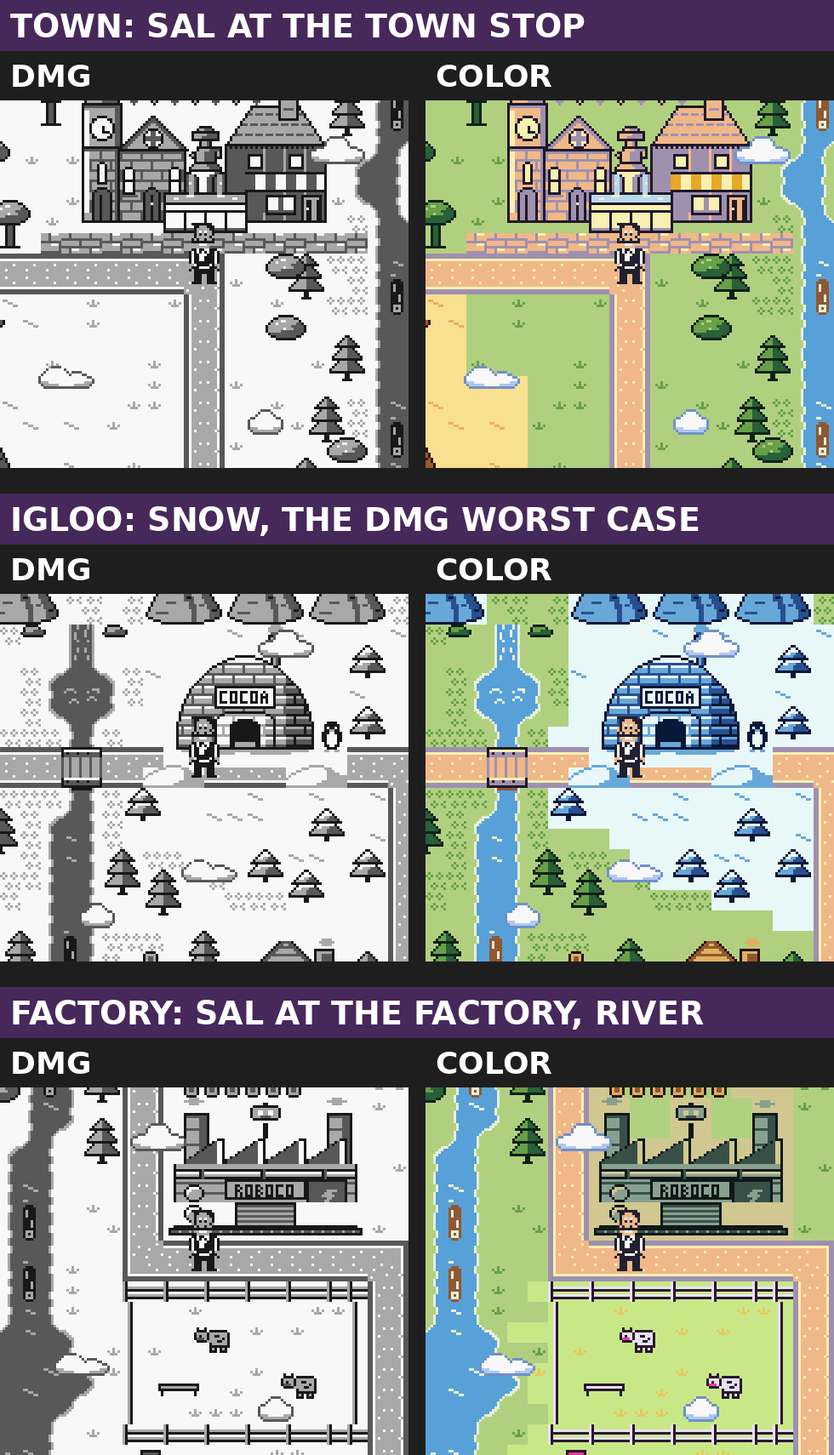
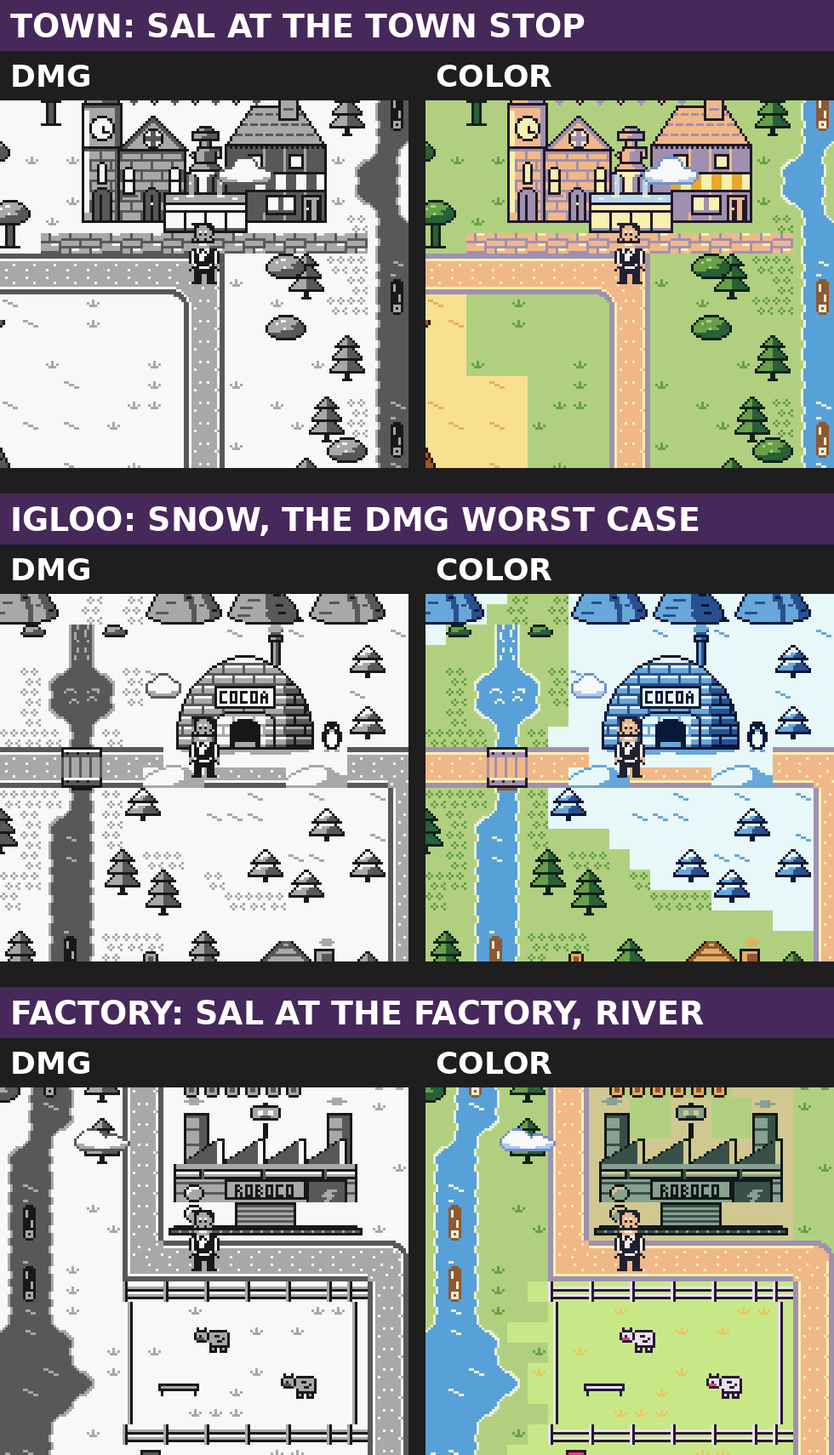
Story map clouds: world coordinates (owner Q114), merged the map's stage 1c
Owner: "clouds need to stay where they are in relation to map not sal". The clouds are now fixed in the world (four lanes, five clouds, world x =
(base + clock >> shift) & 1023) and scroll with the camera; they drift on their own. NOTES.md: new budget (OAM 23-35, one free scratch byte for
the clock's high half, no global), per-line count with a cloud over Sal (10 worst, clouds last in OAM, off-screen clouds y 0), CPU about 600
cycles a frame (estimate), the beam hides them. GIF re-rendered with Sal walking town to saloon to stadium (camera x 216..0, y 164..28).
Proposal only; goldens changed: none.

Claude-Session: https://claude.ai/code/session_01WXumg9pvGTKbXyU3qBciuY

diff --git a/docs/dev/proposals/smap_clouds/clouds.py b/docs/dev/proposals/smap_clouds/clouds.py
@@ -125,30 +125,27 @@ def blit(im, grid, x, y, cols, flip=False, w=None):
                 im.putpixel((px, py), (c, c, c) if isinstance(c, int) else c)
 
 
-# the lanes (screen y of the sprite's top; the entry is 16 tall) and speeds: a step of 1 px when (tick & mask) == phase.  Lanes are 16 px or more apart, so a line never holds two clouds.
-LANES = {"C": 12, "B": 100, "A": 118}
-STEP = {"C": (7, 3), "B": (3, 0), "A": (7, 5)}      # (mask, phase): C 1 px / 8 frames, B 1 px / 4, A 1 px / 8
+# World coordinates (owner, Q114: "clouds need to stay where they are in relation to map not sal").  Four lanes 128 px apart (56, 184, 312, 440: any 144-line view holds a whole lane), one cloud per lane except lane 184 (two, same speed, 210 px apart: never on one screen),
+# one cloud per lane, world x = (base + clock >> shift) & 1023 with clock = the 16-bit frame count (V_TICK and one scratch byte).  The world is 512 wide, so a cloud is on the map half of
+# the time.  Hidden (OAM y 0) when off the screen.  (design, world y, base x, shift: 1 px per 2^shift frames, X flip)
+CLOUDS = [("A", 56, 20, 3, 0), ("C", 184, 300, 3, 0), ("B", 184, 90, 3, 1), ("B", 312, 380, 2, 0), ("A", 440, 200, 3, 1)]
 
 
-class Clouds:
-    def __init__(self, xs, flips=(0, 0, 0)):
-        self.x = dict(zip(ORDER, xs))
-        self.f = dict(zip(ORDER, flips))
-        self.t = 0
+def cloud_pos(i, clk, cx, cy):
+    """the screen position (sx, sy) of cloud i, or None when it is off the screen (its entries get y = 0: they cost no scanline)"""
+    d, wy, base, sh, fl = CLOUDS[i]
+    wx = (base + (clk >> sh)) & 1023
+    sx, sy = wx - cx, wy - cy
+    if sx < -24 or sx >= 160 or sy <= -16 or sy >= 144:
+        return None
+    return sx, sy
 
-    def tick(self):
-        for k in ORDER:
-            m, p = STEP[k]
-            if (self.t & m) == p:
-                self.x[k] += 1
-                if self.x[k] >= 160:                 # b0 == 168: every entry is off the right edge; the engine jumps the group to -24 (a byte of 232)
-                    self.x[k] = -24
-                    self.f[k] ^= 1
-        self.t += 1
 
-    def draw(self, im, cols):
-        for k in ORDER:
-            blit(im, GRIDS[k], self.x[k], LANES[k], cols, bool(self.f[k]))
+def draw_clouds(im, clk, cx, cy, cols):
+    for i, (d, wy, base, sh, fl) in enumerate(CLOUDS):
+        p = cloud_pos(i, clk, cx, cy)
+        if p:
+            blit(im, GRIDS[d], p[0], p[1], cols, bool(fl))
 
 
 def view(world, cx, cy):
@@ -226,10 +223,10 @@ def pair_panel(cgb, ground):
     return stack_h(ims, gap=16)
 
 
-def compose_view(cgb, world, cx, cy, fx, fy, cl, pic=0, upx=0):
+def compose_view(cgb, world, cx, cy, fx, fy, clk, pic=0, upx=0):
     im = view(world, cx, cy).copy()
     draw_sal(im, fx, fy, cx, cy, pic, upx, SAL_CGB if cgb else SAL_DMG)
-    cl.draw(im, CLOUD_CGB if cgb else CLOUD_DMG)
+    draw_clouds(im, clk, cx, cy, CLOUD_CGB if cgb else CLOUD_DMG)
     return im
 
 
@@ -276,39 +273,37 @@ def main(outdir):
     sheet.save(out / "sheet_designs.png")
     rep.append(f"sheet_designs.png {sheet.size}")
 
-    # ---- sheet 2: in context x3 ----
-    views = [("TOWN: SAL AT THE TOWN STOP", 296, 236, (96, 14, 120), ""),
-             ("IGLOO: SNOW, THE DMG WORST CASE", 424, 100, (30, 70, 100), ""),
-             ("FACTORY: SAL AT THE FACTORY, RIVER", 432, 372, (100, 20, 50), "")]
+    # ---- sheet 2: in context x3 (world clouds at the clock value shown) ----
+    views = [("TOWN: SAL AT THE TOWN STOP", 296, 236, 0),
+             ("IGLOO: SNOW, THE DMG WORST CASE", 424, 100, 3040),
+             ("FACTORY: SAL AT THE FACTORY, RIVER", 432, 372, 0)]
     vrows = []
-    for title, fx, fy, xs, _ in views:
+    for title, fx, fy, clk in views:
         cx, cy = camera(fx, fy, WW, WH)
         pair = []
         for cgb, w_ in ((False, wd), (True, wc)):
-            im = compose_view(cgb, w_, cx, cy, fx, fy, Clouds(xs))
+            im = compose_view(cgb, w_, cx, cy, fx, fy, clk)
             pair.append(label(up(im, 3), "DMG" if not cgb else "COLOR", 36))
         vrows.append(label(stack_h(pair), title, 38, bg=(70, 40, 90)))
     sheet2 = stack_v(vrows, gap=30)
     sheet2.save(out / "sheet_context.png")
     rep.append(f"sheet_context.png {sheet2.size}")
 
-    # ---- the GIF: DMG left, Color right; Sal stands at the igloo, walks the east road to the lodge, stands ----
-    path = [(424, 100), (504, 100), (504, 236), (442, 236)]
+    # ---- the GIF: DMG left, Color right; Sal stands at the town, walks west to the saloon, north on the west road to the stadium, stands.  The camera scrolls 296 -> 0 and 164 -> 28. ----
+    path = [(296, 236), (43, 236), (8, 236), (8, 100), (80, 100)]
     frames = []
-    cl = Clouds((140, 116, 130))                     # A, B, C
     seq = [1, 0, 2, 0]
     pos = list(map(float, path[0]))
-    leg, walk, phase, ph_t = 0, 0, 0, 0
-    total = 180 + 144 + 130
-    maxlines = []
+    leg, phase, ph_t = 0, 0, 0
+    total = 100 + 250 + 100
+    over_sal, max_cloud_line, cam_span = 0, 0, [999, -1, 999, -1]
     for t in range(total):
-        walking = 180 <= t and leg < len(path) - 1
+        walking = 100 <= t and leg < len(path) - 1
         pic, upx = 0, 0
         if walking:
             tx, ty = path[leg + 1]
             dx, dy = tx - pos[0], ty - pos[1]
-            d = max(abs(dx), abs(dy))
-            step = min(2, d)
+            step = min(2, max(abs(dx), abs(dy)))
             pos[0] += step * (dx > 0) - step * (dx < 0)
             pos[1] += step * (dy > 0) - step * (dy < 0)
             if abs(tx - pos[0]) < 1 and abs(ty - pos[1]) < 1:
@@ -322,19 +317,28 @@ def main(outdir):
             phase = ph_t = 0
         fx, fy = int(pos[0]), int(pos[1])
         cx, cy = camera(fx, fy, WW, WH)
-        sy = fy - 24 - cy
-        # a cloud lane against Sal's lines (his entries plus the arrows: sy - 9 .. sy + 40)
-        for k in ORDER:
-            if LANES[k] < sy + 41 and LANES[k] + 16 > sy - 9:
-                maxlines.append((t, k))
+        cam_span = [min(cam_span[0], cx), max(cam_span[1], cx), min(cam_span[2], cy), max(cam_span[3], cy)]
+        ssx, ssy = fx - 8 - cx, fy - 24 - cy                     # Sal's art box 16 x 24 (his entries 32 lines tall)
+        lines = {}
+        hit = False
+        for i in range(len(CLOUDS)):
+            p = cloud_pos(i, t, cx, cy)
+            if p:
+                n = len(GRIDS[CLOUDS[i][0]][0]) // 8
+                for y in range(max(0, p[1]), min(144, p[1] + 16)):
+                    lines[y] = lines.get(y, 0) + n
+                if p[0] < ssx + 16 and p[0] + 8 * n > ssx and p[1] < ssy + 32 and p[1] + 16 > ssy:
+                    hit = True
+        over_sal += hit
+        max_cloud_line = max([max_cloud_line] + list(lines.values()))
         if t % 3 == 0:
             pair = []
             for cgb, w_ in ((False, wd), (True, wc)):
-                pair.append(up(compose_view(cgb, w_, cx, cy, fx, fy, cl, pic, upx), 3))
+                pair.append(up(compose_view(cgb, w_, cx, cy, fx, fy, t, pic, upx), 3))
             lab = [label(pair[0], "DMG", 36), label(pair[1], "COLOR", 36)]
             frames.append(stack_h(lab))
-        cl.tick()
-    rep.append(f"gif frames {len(frames)} ({total} game frames, 3 per frame, 50 ms = 60 fps), size {frames[0].size}; cloud lane touches Sal's band (sy-9..sy+40) on {len(maxlines)} (frame, cloud) pairs")
+    rep.append(f"gif frames {len(frames)} ({total} game frames, 3 per frame, 50 ms = 60 fps), size {frames[0].size}; camera x {cam_span[0]}..{cam_span[1]}, y {cam_span[2]}..{cam_span[3]}; "
+               f"most cloud entries on one line {max_cloud_line}; frames with a cloud over Sal's sprite {over_sal}")
     q = [f.quantize(colors=96, method=Image.Quantize.MEDIANCUT, dither=Image.Dither.NONE) for f in frames]
     q[0].save(out / "smap_clouds_dmg_color.gif", save_all=True, append_images=q[1:], duration=50, loop=0, optimize=True)
     rep.append("gif bytes %d" % (out / "smap_clouds_dmg_color.gif").stat().st_size)

diff --git a/docs/dev/proposals/smap_clouds/NOTES.md b/docs/dev/proposals/smap_clouds/NOTES.md
@@ -2,9 +2,11 @@
 
 Owner: "I think it would be cool is sprite clouds drifted across the map, independent of the background. Assuming we got sprite only tile slots freed up."
 
-Files here: `clouds.txt` (the art, typed by hand), `clouds.py` (transcribes, composites over the integrated map, lints; rebuild: `python3 -I docs/dev/proposals/smap_clouds/clouds.py docs/dev/proposals/smap_clouds`, from the repo root, after `smap_import/build.py`'s first two steps wrote the A5 scratch src), `clouds_dmg.png` / `clouds_cgb.png` (indexed 64x16 sheets: 8 sprite columns), `sheet_designs.png`, `sheet_context.png`, `smap_clouds_dmg_color.gif` (DMG left, Color right, 454 game frames at 60 fps, no flashing), `report.txt`.
+Files here: `clouds.txt` (the art, typed by hand), `clouds.py` (transcribes, composites over the integrated map, lints; rebuild: `python3 -I docs/dev/proposals/smap_clouds/clouds.py docs/dev/proposals/smap_clouds`, from the repo root, after `smap_import/build.py`'s first two steps wrote the A5 scratch src), `clouds_dmg.png` / `clouds_cgb.png` (indexed 64x16 sheets: 8 sprite columns), `sheet_designs.png`, `sheet_context.png`, `smap_clouds_dmg_color.gif` (DMG left, Color right, 450 game frames at 60 fps: Sal stands at the town, walks west to the saloon and north to the stadium, the camera scrolls x 216 to 0 and y 164 to 28 and the clouds scroll with the map; no flashing), `report.txt`.
 
-**Answer: yes.** 8 OAM entries and 16 sprite-only tiles buy three clouds; 0 bytes of WRAM, no existing sprite touched, no new Color palette slot that the map uses.
+**Revision 2 (owner, Q114: "clouds need to stay where they are in relation to map not sal").** The clouds now live in world coordinates: they scroll with the map when Sal walks and the camera moves, and still drift on their own. Revision 1 (screen-space lanes) is replaced; the designs, tiles and palettes did not change.
+
+**Answer: yes.** 13 OAM entries (23-35) and 16 sprite-only tiles buy five clouds on four world lanes; no new WRAM global (one free byte of `story_scratch` holds the clock's high half), no existing sprite touched, no new Color palette slot that the map uses. The beam-up hides them.
 
 ## Part 1: budget (the map as it stands in src/ today)
 
@@ -12,38 +14,42 @@ The map is in 8x16 sprite mode (`src/main.c:12`). An entry is 16 lines tall what
 
 | Resource | Used now | Free for clouds | Where |
 |---|---|---|---|
-| OAM entries (40) | 0-2 arrows, 3-6 Sal, 7 bang, 8-18 the 11 stop dots, 19-21 UFO, 22 panel cursor = 23 | 23-39 = 17; **32-39 = 8 permanently**. The beam-up uses 0-2 (the UFO over Sal) and 23-31 (the beam, 9 entries) | `src/smap.c:136-141`; beam `src/cameo.c:116-143` (`figat(23, rows*3 ...)`, `for (i = 23; i < 32 ...)`) |
+| OAM entries (40) | 0-2 arrows, 3-6 Sal, 7 bang, 8-18 the 11 stop dots, 19-21 UFO, 22 panel cursor = 23 | 23-39 = 17 free; the clouds take **23-35 (13)**. The beam-up uses 0-2 (the UFO over Sal) and 23-31 (the beam, 9 entries), so the clouds must be hidden while it plays (they are: see Integration). 36-39 stay spare | `src/smap.c:136-141`; beam `src/cameo.c:116-143` (`figat(23, rows*3 ...)`, `for (i = 23; i < 32 ...)`) |
 | Sprite-only tiles (ids 0-127; BG ids 128+ share 0x8800 with sprites 128-255) | 0-39 Sal (5 pictures x 8); 56-73 the map's 18 (UFO 6, dots 4, bang 2, arrows 6: `tools/gen_smap.py:94`, `src/smap_priv.h:13`); 98-115 the beam and UFO art when the space lounge is open (`cam_map_load`, `CAM_SPACE_BASE 98`, 18 tiles, from `tools/gen_cameo.py`) | 40-55 (16: the DX badge / zoo cameo's, not loaded on the map), **74-97 (24)**, 116-127 (12) = 52 with the space lounge open, 70 before. Clouds take 74-89 (even ids: 8x16 pairs) | `src/game.h:157-167`; the map streams only BG ids 0-35 and 93-232 (`pool_id`, `src/smap_priv.h:84`), never 0x8000-0x87FF |
 | Color bank-1 sprite tiles | none loaded by the map (`tile_load` bank 1 writes the BG pool ids only, `src/smap_eng.c:515-525`) | all 128 of bank 1 ids 0-127. Not needed: the clouds are the same tiles on both machines | |
 | DMG sprite palettes | OBP0 = 0xD0 (every map sprite: Sal, arrows, dots, UFO, bang; `src/smap.c:795`). OBP1 only by the beam (0xE4, `cam_map_load`, `src/cameo.c:124`; the beam's entries use `S_PALETTE`) | **OBP1** (set 0x90: white, light grey, mid grey) | |
 | Color OBJ palettes | 0 Sal, 2 UFO and beam, 3 open dot, 4 locked dot, 6 arrow, 7 bang (`src/smap.c:131-135, 789-791`) | **1 and 5** (the cards' and the coin's; the map never loads either). Clouds: 1 | |
-| WRAM | `story_scratch` variable block is full: `S_V + V_N = 396 + 68 = 464 = S_T` (`src/smap_priv.h:32,45,46`) | none needed: the cloud state lives in the shadow OAM entries themselves (see Integration) | |
+| WRAM | `story_scratch` variable block is full: `S_V + V_N = 396 + 68 = 464 = S_T` (`src/smap_priv.h:32,45,46`). `V_TICK` is only 8 bits | **1 byte**: the high byte of a 16-bit frame clock (`V_TICK` low), at `story_scratch` 238 or 239, which the region table leaves free (A_PUSE ends at 238, A_ATTR_UI starts at 240, `src/smap_priv.h:21-22`; the stage 1 import notes keep those 2 B free after its re-lay). Not a global. Everything else is derived: world x = (base + clock >> shift) & 1023, fixed world y, screen = world - camera |
 
 ### Sprites per scanline
 
-Worst line today, standing at a stop (all entries counted by their 16 lines, hidden-by-x entries included):
+Worst line today, standing at a stop (all entries counted by their 16 lines):
 - Sal 2 (his two rows of two entries never overlap each other) + the left and right arrows 2 = 4 on his lines sy+8..sy+15 (sy = his top, `src/smap.c:316-340`).
-- Lines sy+25..sy+31: Sal 2 + the down arrow 1 + his own dot 1 + up to 2 more dots on the same lane (stops share a feet y: `smapw_stop`, at most 2 other stops fit in 160 px; `draw_still`) = 6.
+- Lines sy+25..sy+31: Sal 2 + the down arrow 1 + his own dot 1 + up to 2 more dots on the same lane (stops share a feet y: `smapw_stop`; at most 2 other stops fit in 160 px) = 6.
 - With the bang or the UFO near a stop: 7. During the beam: UFO 3 + beam band 3 on the 5 lines they share = 6; Sal 2 + one band 3 = 5.
 - **Worst non-cloud line: 7.** The limit is 10.
 
-Clouds: three groups of 3, 2 and 3 entries on three lanes at least 16 px apart (screen y 12, 100, 118), so a line never holds two clouds: **at most 3 more, 10 in the worst case, normally 3 to 7.** Two things make that safe:
-1. Hardware keeps the first 10 entries *in OAM order* on a line and drops the later ones. The clouds are OAM 32-39, the last, so if a line is ever full it is a cloud that is cut, never Sal, an arrow, a dot or the UFO.
-2. The lanes sit away from Sal. The camera centres him (his top is screen y 48 when the camera is not clamped), so his band with the arrows is lines 39..88 and the lanes are 12-27, 100-115, 118-133. `clouds.py` walks the igloo to lodge route and counts 0 frames where a lane meets his band. At the world's edges he moves toward a lane and a cloud can pass over him (Color: he is in front, lower OAM index; DMG: the hardware gives the entry with the smaller x priority, so a cloud left of his x covers his head for a moment; harmless).
-An entry off the screen in x still counts toward the line, so the three lanes cost their entries all the time, not only when a cloud is in view. That is already in the numbers above.
+Clouds, world version: four lanes at world y 56, 184, 312 and 440 (128 apart, 16 tall), one cloud per lane except lane 184 (two, 210 px apart and the same speed, so never on one 160 px screen). Any 144-line view holds a whole lane. Lanes are at least 16 px apart in y, so **a line holds at most one cloud: 3 entries.** Worst line = 7 + 3 = **10, within the limit.** The mock-up counts it: over the whole walk the most cloud entries on any line is 3.
+- **A cloud over Sal** (now possible, the world moves under both): the worst line is exactly that 7 + 3 = 10; no cloud can add a second group to the same lines. Hardware keeps the first 10 entries in OAM order and the clouds are the last (23-35), so a cloud is what gets cut, never Sal. Color: Sal is in front (lower OAM index). **DMG: the entry with the smaller x wins, so a cloud to the left of Sal's x covers part of him for the seconds it takes to pass.** The mock-up's walk (town to saloon to stadium) never meets one (0 frames); the town stop sits right under lane 184, so a cloud can cross him there. Owner's call: accept it (a cloud passing over a hero reads as a cloud), or hide a cloud while it is within Sal's box (one compare per cloud, about 40 cycles).
+- A cloud off the screen gets OAM y 0, so it costs no line at all (revision 1's off-screen-in-x entries did). Unused entries 23-35 are y 0.
+- **The beam**: `V_BEAM` set hides entries 23-35 (y 0) once, in `press_a`, and `cloud_update` returns while `V_BEAM` is non-zero. The beam then writes 23-31 itself (it already sets them to y 0 first) and never touches 32+. So during the beam the line counts are the beam's own (6 at most).
 
-**How many 8x16 clouds fit:** 8 entries = 3 clouds (3 + 2 + 3), or 4 two-entry puffs. Up to 17 entries (23-39) if the beam-up hid the clouds first (the beam writes 23-31 itself); not proposed, the 8 are enough for a few clouds on a 160 px view and keep the beam untouched. Tiles: 16 of the 52-70 free.
+**How many 8x16 clouds fit:** the 13 entries hold 5 clouds (A 2 + C 3 + B 3 + B 3 + A 2); up to 17 entries (23-39) are free, so a 6th would fit. Lanes are the limit, not entries. Tiles: 16 of the 52-70 free.
 
 ### CPU (estimated by instruction count, not measured: nothing is built)
 
-State is `x` of each group's first entry (the other entries are +8 and +16). A step is `x++` on each of the group's 2-3 entries (about 30 cycles each in SDCC C), one compare for the wrap, and a tick test per cloud:
-- Steps happen when `(V_TICK & mask) == phase`: B every 4 frames (phase 0), A and C every 8 (phases 5 and 3). The phases never coincide, so **at most one cloud steps in a frame**: about 190 cycles on a step frame, about 40 on the others, **about 115 on average = 0.16% of a 70,224-cycle DMG frame; worst 0.4 of a 456-cycle scanline.**
-- It is called once at the end of `smap_update`, after the walk and the drawing, so it takes nothing from the `LY_WORK` window that `smap_region_work` watches (`src/smap_priv.h:88-97`).
-- Walking frames (`draw_walk`) are untouched. No `oam_shift` is needed: the clouds are in screen space.
-- Hiding under a window (the name tag, a panel) is done in `draw()` (which already runs on every frame with a window or a still hero): 3 compares and up to 8 stores, about 100 cycles, only on those frames. A cloud entry overlapping the window rows is set to y 0, restored from its lane constant.
-- No asm needed. If the owner wants one anyway: `make cfall` keeps the C twin as the rules say.
+Every frame `cloud_update(cx, cy)` runs at the end of `smap_update` (after the walk and the drawing, so it takes nothing from the `LY_WORK` window `smap_region_work` watches, `src/smap_priv.h:88-97`):
+- the clock: `V(V_TICK)++` already runs; when it wraps to 0, `SC(238)++` (about 12 cycles once per 256 frames);
+- per lane: its screen y = world y - camera y (16-bit, about 30 cycles) and a range test, about 35 cycles in all; 4 lanes = about 140;
+- per cloud on a lane that is in view: `wx = (base + (clk >> shift)) & 1023` (16-bit shifts and add, about 70), `sx = wx - cx` (about 30), the range test (about 40), 2-3 stores of the entries' x and y (about 70) = about 210; at most 2 lanes are in view, usually 2 clouds = about 420;
+- entries of a cloud that just left the screen get y 0 (about 10 per entry).
+- **Total about 600 cycles a frame = 0.85% of a 70,224-cycle DMG frame, about 1.3 scanlines (456 cycles each); worst about 750.** The same every frame, walking or standing.
+- Window hiding folds in: with a window up (V_WH) an entry overlapping its rows gets y 0, 3 more compares.
+- Revision 1 (screen space, a step every 4-8 frames) cost about 115 cycles a frame; the world version costs about 5 times that, because the camera moves them and the positions are rederived every frame. If that is too much for the walk: a cheaper form shifts the visible clouds' x by the camera's step like `oam_shift` (about 120 cycles for 13 entries) and recomputes only when a cloud enters or leaves; not drawn here.
+- No asm needed. If wanted: `make cfall` keeps the C twin as the rules say.
 
-ROM: 256 B of tiles, about 250-350 B of code and 3 palette words, all in smap.c's own bank (it is a bank on its own), none in ROM0 (the 745 B of free ROM0 stay). Nobody measured the bank's free space: romusage before and after in stage 2.
+ROM: 256 B of tiles, about 400-500 B of code and 3 palette words, all in smap.c's own bank (it is a bank on its own), none in ROM0 (the 745 B of free ROM0 stay). Not measured: romusage before and after in stage 2.
+
 
 ## Part 2: the clouds
 
@@ -52,20 +58,21 @@ Three designs (`sheet_designs.png`): A PUFF 16x16 (2 entries), B LONG 24x16 (3),
 - DMG: OBP1 = 0x90 gives white / light grey / mid grey. On the white ground the outline carries the cloud; over water (shade 2) the white body carries it and the outline vanishes into the water. The shade is the light grey, so the belly is soft. No black anywhere, so clouds never compete with Sal (black outline).
 - Color: OBJ palette 1: `F8F8F8` `B0C8F0` `7090C8` (RGB555 0x7FFF, 0x7B36, 0x664E), same tiles; a cool blue shade and a deeper blue edge (figure 13: shadows cool, darkest a deep hue; figure 7: mids below about 16 of 31 so the steps survive the washed-out LCD, first draft D0E0F8 was too close to white). The map and design sheets are the project's raw palette render; one row of `sheet_designs.png` shows an approximate LCD correction (a common emulator matrix, illustrative, not SameBoy's).
 - Tiles: 16 slots, 12 unique (3 are blank halves), 9 with flips merged. Not merged in the plan: flip-merging would save 4 tiles but adds an entry flag per tile; unneeded.
-- Drift: C 1 px / 8 frames (7.5 px/s), B 1 px / 4 (15 px/s), A 1 px / 8. A group wraps when its first entry's x byte reaches 168 (all entries are then off the right edge) and jumps to 232 (-24 px, all off the left); at each wrap the engine can flip the group. The GIF does that; a cloud takes 12 to 25 s to cross.
-- Independent of the background: screen space; Sal walking at 2 px/frame sends the ground past them. Option (not drawn): a quarter of the camera's step added to x gives a parallax; costs a few more cycles per camera move.
+- Drift: lane-mates, A and C: 1 px / 8 frames (7.5 px/s, shift 3), B 1 px / 4 (15 px/s, shift 2). World x = (base + clock >> shift) & 1023; the world is 512 wide, so each cloud is on the map half of the time and slides off the right edge and returns from the left (hidden both times). 16384 and 8192 are multiples of 1024, so the 16-bit clock wrapping (every 18 minutes) is seamless. A group is X-flipped by a fixed flag per cloud.
+- Stays with the map (owner Q114): a cloud's position is fixed in the world and moves only by its own drift; Sal walking sends the camera across it exactly like the trees (the GIF: the camera goes from x 216 to 0 and y 164 to 28 over 250 frames and the clouds scroll with the ground). Screen position = world - camera, so no `oam_shift` is involved; the map's camera is the only input.
 - No flashing: the motion is 1 px steps, slow, light shades; DMG ghosting is not a worry at this speed on white.
 
-Mock-up honesty: the integrated map is a stage 1 proposal, not in the engine, so the GIF and context sheet composite the sprites over the python render of that map (the same world renders the other import sheets use), with Sal's real art and no arrows or dots drawn. It is not a ROM capture.
+Mock-up honesty: the integrated map is a stage 1 proposal, not in the engine, so the GIF and context sheet composite the sprites over the python render of that map (the same world renders the other import sheets use; merged again for stage 1c), with Sal's real art and no arrows or dots drawn, the camera following Sal 1:1 (clamped to the world), and the clock = the game frame. It is not a ROM capture. The context sheet shows clouds at the world positions of a clock value set in `clouds.py` (the igloo view is at clock 3040, about 50 s in).
 
 ## Integration sketch (stage 2, if the owner picks one)
 
-- `tools/gen_smap.py`: three more 8x16 groups after the UFO; `SOB_CLOUD_A/B/C` at OBJ 74-89 (`OB + 18`; `OB` is 56, so these are `OB + 18 .. OB + 33`; keep the `< 98` check because the beam art starts at 98); one more row in `smap_obj_pal` for OBJ palette 1.
-- `smap_enter`: `set_sprite_data` already loads the block; after `cam_map_load()` set `OBP1_REG = 0x90` (DMG) / `set_sprite_palette(1, 1, ...)` (Color); write the 8 entries (lane y + 16, staggered x, tile, prop: Color palette 1 | flip, DMG `S_PALETTE` for OBP1).
-- `smap_update`: one `cloud_drift()` call at the end (the tick test and the steps above); `draw()`: the window hide for entries 32-39.
-- Beam (`press_a`, `smap.c:634`): `V_BEAM = 1` also sets `OBP1_REG = OBP1_PLAY` (0xE4) for the beam's edges and hides the 8 clouds (OBP1 0xE4 would turn them dark); or let them keep going and accept dark ones for 3 s: not recommended.
+- `tools/gen_smap.py`: three more 8x16 groups after the UFO; `SOB_CLOUD_A/B/C` at OBJ 74-89 (`OB + 18 .. OB + 33`; `OB` is 56; keep a build assert `< 98`, the beam art starts there); one more row in `smap_obj_pal` for OBJ palette 1. The 5 clouds' (design, world y, base x, shift, flip) table is `const` in smap.c (about 25 B).
+- `smap_enter`: `set_sprite_data` already loads the block; after `cam_map_load()` set `OBP1_REG = 0x90` (DMG) / `set_sprite_palette(1, 1, ...)` (Color); write tile and prop of entries 23-35 once (Color palette 1 | flip, DMG `S_PALETTE` for OBP1; flipped groups list their entries in reverse); `story_scratch` is cleared there, so the clock starts at 0 (clouds start from their base each visit).
+- `smap_update`: `if (!++V(V_TICK)) SC(238)++` instead of `V(V_TICK)++`; one `cloud_update()` call at the end (the lanes above, `if (V(V_BEAM)) return;` first), with the window hide folded in.
+- Beam (`press_a`, `smap.c:634`): `V_BEAM = 1` also sets `OBP1_REG = OBP1_PLAY` (0xE4) for the beam's edges and sets y 0 on entries 23-35 (OBP1 0xE4 would turn the clouds dark, and 23-31 are the beam's).
 - `leave()`: put OBP1 back to `OBP1_PLAY` (screens after the map expect their own value; `cameo.c:57` sets it for the PRE scene, other screens do not obviously).
-- Tests: a junk-poke test of the cloud entries (PyBoy zeroes OAM; real hardware does not; `hide_all_sprites` at `smap.c:773` runs first), an OAM-count assertion (entries 32-39 only), and existing map goldens will change where a cloud sits: the map's goldens need the clouds frozen or the entries hidden for the tests.
+- Tests: a junk-poke test of the cloud entries (PyBoy zeroes OAM; real hardware does not), an OAM assertion (entries 23-35 only; y 0 during the beam), and the existing map goldens will change where a cloud is in view: freeze the clock or hide the entries in the tests (the clock byte is a free scratch byte, so a test can poke it).
+
 
 ## DMG or Color
 
@@ -77,11 +84,15 @@ Mock-up honesty: the integrated map is a stage 1 proposal, not in the engine, so
 
 1. **OBP1 collision with the beam** (`cam_map_load` sets 0xE4 whenever the space lounge is open). The fix is two writes, but it touches the beam's code path and the leave path; stage 2 must test the beam and the screens after the map on DMG.
 2. **OBJ palette 1 on Color**: the map must load it itself; I did not find who restores it afterwards (mini-games and levels load their own mug palettes; I did not verify every path). Palette 5 is the alternative; `render.c:816` rewrites it when a coin appears.
-3. **DMG sprite priority**: a cloud can cover Sal where its x is smaller than his. Lanes avoid his band unless the camera is clamped.
-4. **Shade 0 against shade 1 on a real DMG** is a small step: the clouds depend on the mid-grey outline (OBP1 0x90). With OBP0 only (0xD0: no mid grey) the clouds would need a black outline or only a light-grey one; not recommended.
-5. **The 10 per line limit holds only with the OAM order**: any later feature that puts a sprite at an index above 31 would sit behind the clouds in priority; keep 32-39 reserved.
-6. **Window layer**: clouds under a panel are hidden by y 0; the cloud then reappears with the panel gone (its x kept in the entry, stepping stops while it is hidden: it should keep stepping; the step code must not read y).
-7. CPU numbers are an estimate. The mock-up's Sal walk uses `WALK_STEP_FRAMES` 10 (`src/game.h:44`) but not the walk's easing.
+3. **DMG sprite priority**: a cloud with a smaller x than Sal covers part of him while it passes (the world version can put a cloud over him: the town stop is under lane 184). Color is fine. Optional hide-near-Sal compare, see above.
+4. **Free scratch byte**: `story_scratch` 238 (or 239) is free today and in the stage 1 import's re-lay (it needs +6 B for 20 palettes and keeps 2 B at 238..239 and 9 B at 291..299 free), but `tests/test_scratch_map.py` and any later re-lay must keep it. If the owner wants strictly no storage: `V_TICK` alone is 8 bits, so a drift of 1 px per 4-8 frames cannot be derived from it without a jump every 256 frames; `music_frames` is 16-bit but counts only with the sound on and restarts with each tune, so I did not use it.
+5. **CPU**: about 600 cycles a frame (estimate), 5 times the screen-space version, because the camera moves them. There is a cheaper form (above).
+6. **Coverage**: a cloud is on the map half the time and a lane is 16 px of 560, so a screen shows about 1 or 2 clouds, sometimes none (the GIF has gaps). More lanes cost lines, not entries; more clouds per lane risk two on one screen and 13 on a line.
+7. **Shade 0 against shade 1 on a real DMG** is a small step: the clouds depend on the mid-grey outline (OBP1 0x90). With OBP0 only (0xD0: no mid grey) they would need a black outline; not recommended.
+8. **OAM 23-35 reserved**: any later map sprite there collides, and the beam owns 23-31 while it plays.
+9. **Window layer**: under a panel or the name tag an entry is set to y 0; the world position is derived each frame, so nothing is lost while it is hidden.
+10. The mock-up's walk uses `WALK_STEP_FRAMES` 10 (`src/game.h:44`) but not the walk's easing.
+
 
 ## Hand-placed art: clean-up log
 
@@ -101,12 +112,12 @@ Mock-up honesty: the integrated map is a stage 1 proposal, not in the engine, so
 | Required references read before drawing | PASS | sprites.md ("Keep characters 16 px wide or less where possible" / "Outline the silhouette"), linework.md ("Remove L-shaped doubles"; "a stray pixel unlike all 8 neighbours is noise"), light-and-form.md ("Sprites that will be mirrored ... are lit from the top"), fx-and-ui.md ("Count particles against 10 objects per scanline and 40 total"), hardware.md ("at most 10 on any scanline"; "Off-screen objects still count"), animation.md ("Move clusters as units"), palettes.md ("Author 8-bit channel values in steps of 8"), briefs.md. Figures opened after the first designs: 03, 04, 07, 11, 13, 15, 18 (not 02, 05, 06, 08, 12, 17), see deviations. |
 | Lint | PASS | DMG: 64x16, 3 colours, 12 unique tiles (9 flip-merged), RESULT PASS, no warnings after the clean-up (first run: 5 orphan pixels, fixed). CGB: RESULT PASS; first run warned #D0E4F8 off the RGB555 grid; the colours are now on the grid (B0C8F0, 7090C8); 1 of 8 palettes. |
 | Colours per tile, palettes, tile count | PASS | 3 colours + transparent per tile; 1 OBJ palette; 16 tile slots in 74-89. |
-| Scanline budget | PASS | clouds 3 per line max (3 lanes 16 px apart); worst non-cloud line 7; total 10 worst, clouds last in OAM so they alone are cut. |
+| Scanline budget | PASS | clouds 3 per line max (4 lanes 128 px apart, one cloud per lane on a screen); worst non-cloud line 7; total 10 worst, clouds last in OAM so they alone are cut; off-screen clouds are y 0. The mock-up counted 3 cloud entries on a line at most over 450 frames. |
 | Squint test at 1x, DMG and Color | PASS | `sheet_context.png` x3 and the GIF: clouds read as white shapes with a grey rim on white ground, white bodies on water; Sal (black outline) reads first. Not tested on a real DMG. |
 | No banding, squares, stray pixels, L-doubles, V-point chins | PASS | lint clean; by eye, the 1-px steps of the belly are 1,1,1 on both ends. |
 | Light direction; flipped sprites still correct | PASS | lit from the top, symmetric; flipped panels in `sheet_designs.png`. |
 | Tiles: tiled preview | N/A | sprites. |
-| Animation: clusters intact, unchanged tiles shared | PASS | whole groups move by 1 px as units; no frames, one tile set; no wind-up (nothing player-triggered). |
+| Animation: clusters intact, unchanged tiles shared | PASS | whole groups move as units (1 px drift plus the camera's scroll); no frames, one tile set; no wind-up (nothing player-triggered). |
 | Placeholder footprint | N/A | new asset; the free slots it takes are listed in the budget table. |
 | Files indexed, ordered, grid-aligned, named | PASS | index 0 magenta transparent, 1 lightest to 3 darkest, 64x16. |
 | Engine questions with working assumptions | PASS | see below. |
@@ -115,7 +126,7 @@ Mock-up honesty: the integrated map is a stage 1 proposal, not in the engine, so
 
 1. Is OBP1 free on the story map when the beam is not playing? Assumed yes (only `cam_map_load` writes it, 0xE4); the art needs 0x90 and a switch back at the beam.
 2. Does anything between the map and the next screen assume OBJ palette 1 or OBP1 as the map left them? Assumed no; stage 2 to restore `OBP1_PLAY` in `leave()`.
-3. Can OAM 32-39 be reserved for the map from now on? Assumed yes (nothing on the map uses them today).
+3. Can OAM 23-35 be reserved for the map's clouds, and `story_scratch` 238 for their clock? Assumed yes (nothing uses them today; 23-31 are the beam's while it plays).
 4. Should the map's goldens hide or freeze the clouds? Assumed a frozen start position or hidden entries in the test runs.
 
 ## Deviations from the skill and the brief
